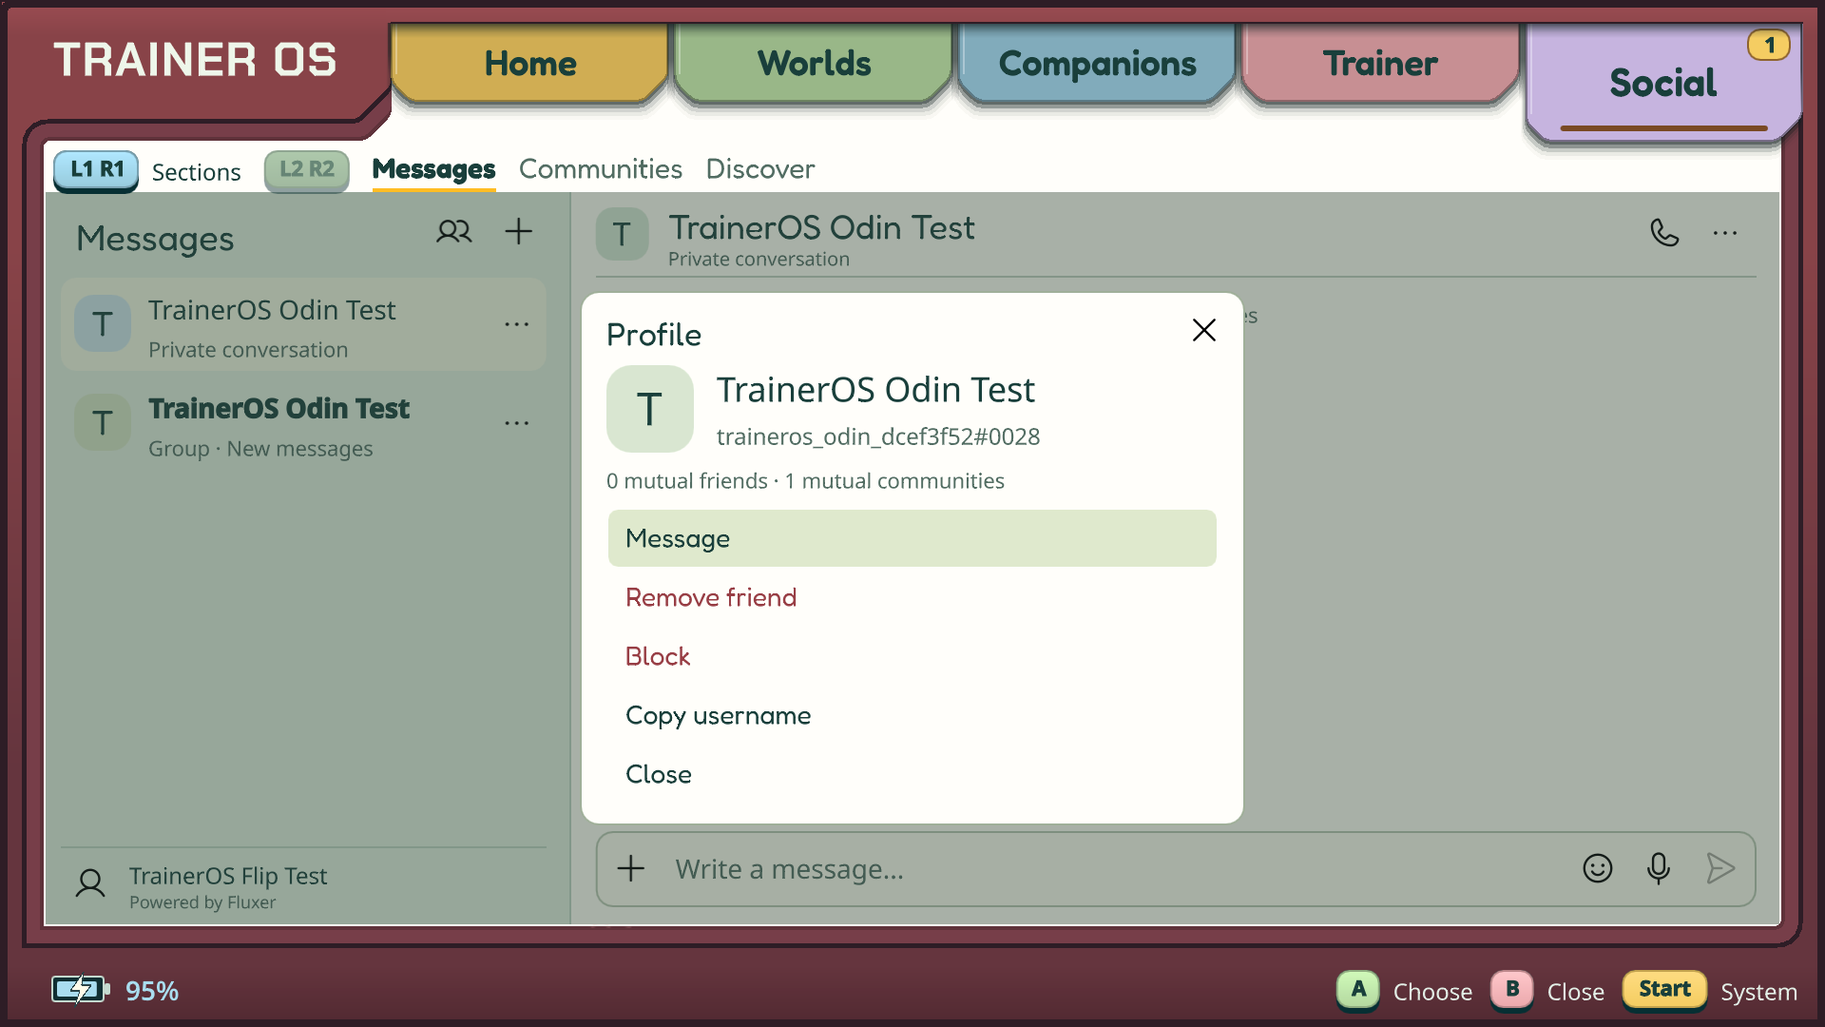
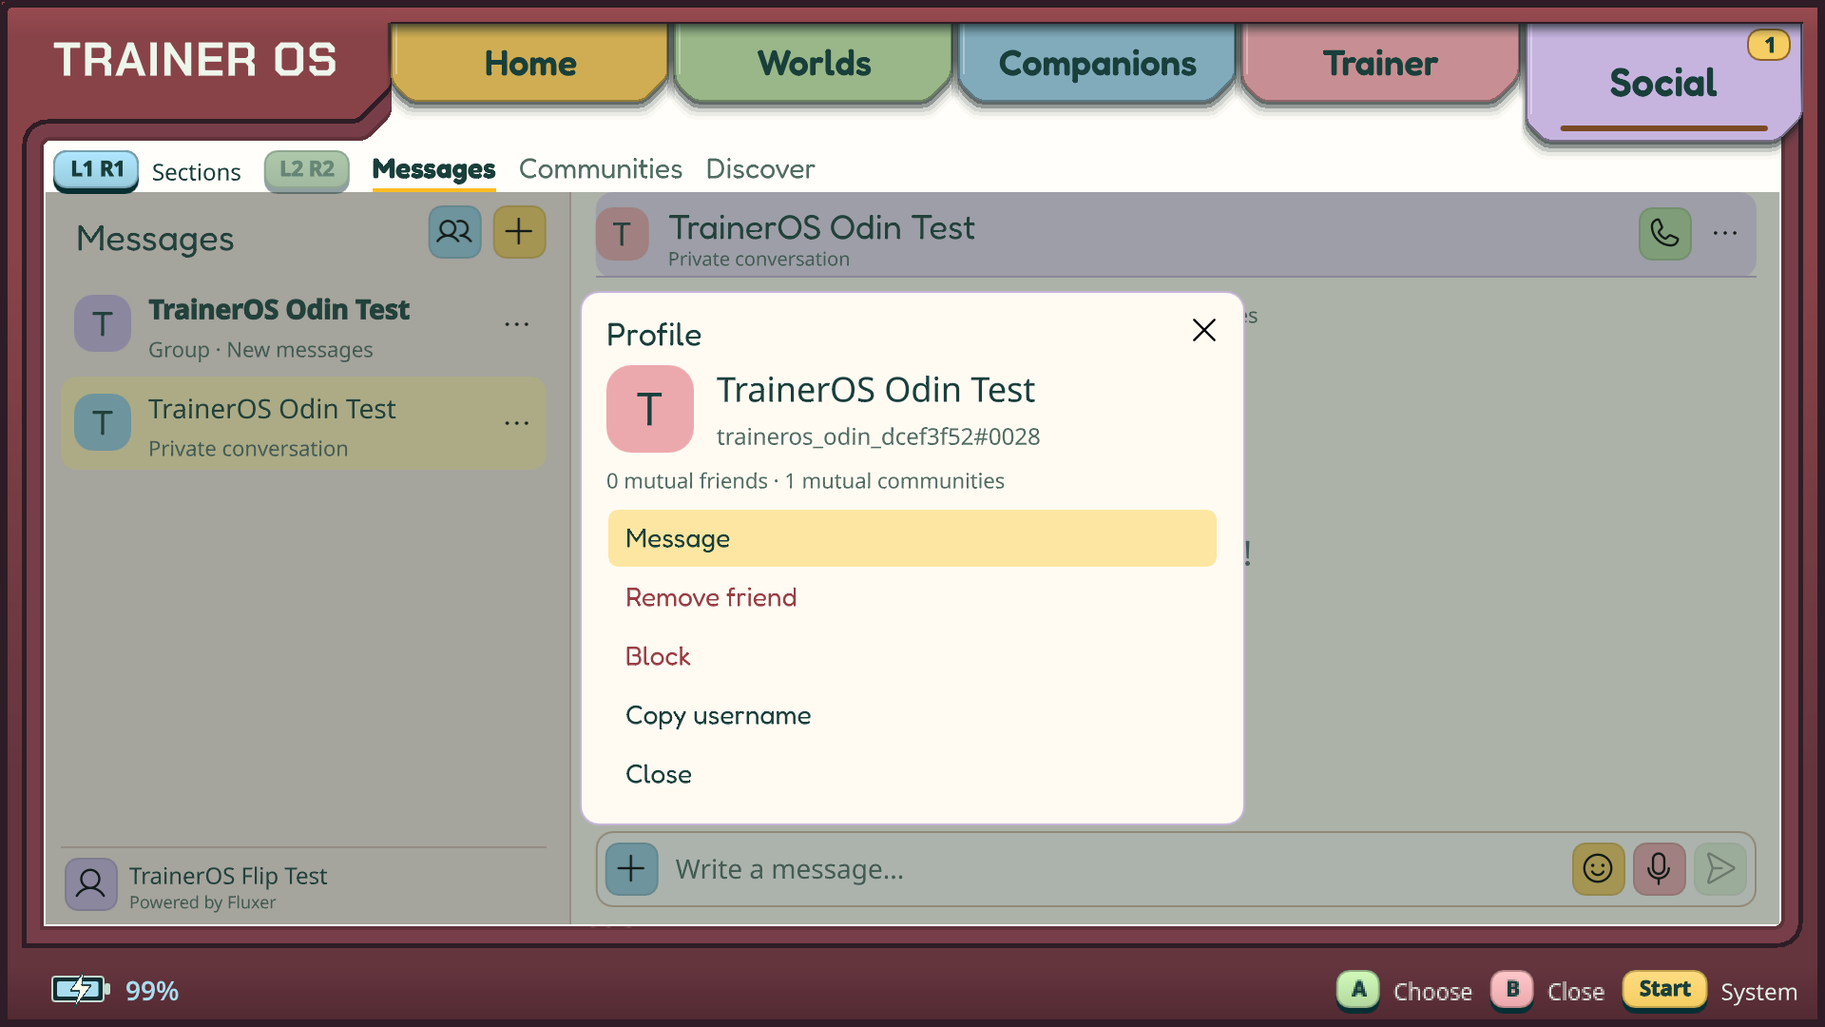
Restore warm pastel accents to compact Social

diff --git a/src/qml/SocialPage.qml b/src/qml/SocialPage.qml
@@ -66,15 +66,15 @@ FocusScope {
         id: conversationPage
         visible: root.connected && root.faceIndex !== 2
         anchors { top: heading.bottom; bottom: parent.bottom; left: parent.left; right: parent.right }
-        Rectangle { anchors.fill: parent; color: "#f8f8ee" }
-        Rectangle { width: people.width + 20; height: parent.height; color: "#dce9d9" }
-        Rectangle { x: people.width + 20; width: 1; height: parent.height; color: "#b9cebd" }
+        Rectangle { anchors.fill: parent; color: "#fffbf0" }
+        Rectangle { width: people.width + 20; height: parent.height; color: "#f4e4de" }
+        Rectangle { x: people.width + 20; width: 1; height: parent.height; color: "#d8beb7" }
         Text { renderType: typeof Text.CurveRendering === "number" ? Text.CurveRendering : Text.QtRendering; x: 16; y: 12; width: people.width - 72
             text: root.faceIndex === 1 ? "Communities" : root.social.contacts ? "Friends" : "Messages"
             font.family: Theme.displayFamily; font.pixelSize: 19; color: Theme.ink; elide: Text.ElideRight }
-        SocialIconButton { x: people.width - 56; y: 5; icon: "users"; label: root.social.contacts ? "Messages" : "Friends and requests"
+        SocialIconButton { x: people.width - 56; y: 5; tint: Theme.blue; icon: "users"; label: root.social.contacts ? "Messages" : "Friends and requests"
             visible: root.faceIndex === 0; onClicked: root.social.showFriends() }
-        SocialIconButton { x: people.width - 22; y: 5; icon: "plus"; label: "Create and manage"
+        SocialIconButton { x: people.width - 22; y: 5; tint: Theme.yellow; icon: "plus"; label: "Create and manage"
             onClicked: { root.anchorMenu(this); root.social.collectionOptions() } }
         ListView {
             id: people
@@ -85,11 +85,11 @@ FocusScope {
                 required property var modelData
                 required property int index
                 width: people.width; height: 49; radius: 8
-                color: index === people.currentIndex ? "#ecf1dc" : mouse.containsMouse ? "#e4edde" : "transparent"
+                color: index === people.currentIndex ? "#fff0b8" : mouse.containsMouse ? "#faeee7" : "transparent"
                 border.width: index === people.currentIndex && !root.social.reading && !root.social.menu.length ? 1 : 0
-                border.color: "#a3ad78"
+                border.color: "#c5a253"
                 MouseArea { id: mouse; anchors.fill: parent; hoverEnabled: true; onClicked: root.social.activate(index) }
-                Rectangle { x: 7; y: 9; width: 30; height: 30; radius: 10; color: modelData.kind === "groups" ? "#d1dfbf" : "#c9e0e5"
+                Rectangle { x: 7; y: 9; width: 30; height: 30; radius: 10; color: modelData.kind === "groups" ? Theme.tabColors[4] : Theme.blue
                     Image { id: avatarImage; anchors.fill: parent; anchors.margins: 1; source: root.visible ? (modelData.avatar || "") : ""; sourceSize: Qt.size(60,60); asynchronous: true; fillMode: Image.PreserveAspectFit; visible: status === Image.Ready }
                     Text { renderType: typeof Text.CurveRendering === "number" ? Text.CurveRendering : Text.QtRendering; visible: avatarImage.status !== Image.Ready; anchors.centerIn: parent; text: modelData.name.substring(0,1).toUpperCase(); color: Theme.ink; font.family: Theme.displayFamily; font.pixelSize: 18; textFormat: Text.PlainText }
                 }
@@ -101,8 +101,8 @@ FocusScope {
                     onClicked: { root.anchorMenu(this); root.social.contextRow(index) } }
             }
         }
-        Rectangle { x: 8; y: parent.height - 41; width: people.width; height: 1; color: "#b9cebd" }
-        SocialIconButton { x: 8; y: parent.height - 37; icon: "user"; label: "My profile"; onClicked: root.social.profile() }
+        Rectangle { x: 8; y: parent.height - 41; width: people.width; height: 1; color: "#d8beb7" }
+        SocialIconButton { x: 8; y: parent.height - 37; tint: Theme.tabColors[4]; icon: "user"; label: "My profile"; onClicked: root.social.profile() }
         Text { renderType: typeof Text.CurveRendering === "number" ? Text.CurveRendering : Text.QtRendering; x: 44; y: parent.height - 34; width: people.width - 70; text: root.account.name || ""; font.pixelSize: 12; color: Theme.ink; elide: Text.ElideRight; textFormat: Text.PlainText
             MouseArea { anchors.fill: parent; onClicked: root.social.profile() } }
         Text { renderType: typeof Text.CurveRendering === "number" ? Text.CurveRendering : Text.QtRendering; x: 44; y: parent.height - 18; text: "Powered by Fluxer"; font.pixelSize: 9; color: Theme.muted }
@@ -113,23 +113,23 @@ FocusScope {
             id: conversationPane
             anchors { left: people.right; leftMargin: 26; right: parent.right; rightMargin: 12; top: parent.top; bottom: parent.bottom }
             visible: root.social.conversation
-            Item { id: chatHeading; width: parent.width; height: 45
-                Rectangle { x: 0; y: 8; width: 28; height: 28; radius: 9; color: "#d1e2ce"
+            Rectangle { id: chatHeading; width: parent.width; height: 45; radius: 9; color: "#e6dbf0"
+                Rectangle { x: 0; y: 8; width: 28; height: 28; radius: 9; color: Theme.pink
                     Text { renderType: typeof Text.CurveRendering === "number" ? Text.CurveRendering : Text.QtRendering; anchors.centerIn: parent; text: root.social.conversationName.substring(0,1).toUpperCase(); font.pixelSize: 17; color: Theme.ink }
                     Image { anchors.fill: parent; source: root.social.conversationInfo.avatar || ""; sourceSize: Qt.size(56,56); asynchronous: true }
                 }
                 Text { renderType: typeof Text.CurveRendering === "number" ? Text.CurveRendering : Text.QtRendering; x: 38; y: 7; width: parent.width - 112; text: root.social.conversationName; font.family: Theme.displayFamily; font.pixelSize: 18; color: Theme.ink; elide: Text.ElideRight; textFormat: Text.PlainText }
                 Text { renderType: typeof Text.CurveRendering === "number" ? Text.CurveRendering : Text.QtRendering; x: 38; y: 28; width: parent.width - 112; text: root.account.historyBusy ? "Loading messages..." : root.social.conversationInfo.kind === "groups" ? "Group conversation" : root.social.conversationInfo.detail || ""; font.pixelSize: 10; color: Theme.muted; elide: Text.ElideRight; textFormat: Text.PlainText }
                 MouseArea { width: parent.width - 74; height: parent.height; onClicked: root.social.conversationProfile() }
-                SocialIconButton { anchors.right: options.left; y: 6; icon: "phone"; label: "Call"
+                SocialIconButton { anchors.right: options.left; y: 6; tint: Theme.green; icon: "phone"; label: "Call"
                     visible: !root.social.conversationInfo.guild
                     enabled: !!root.account.voice && (root.account.voice.available || !!root.account.voice.channel)
                     onClicked: { root.anchorMenu(this); root.social.call() } }
                 SocialIconButton { id: options; anchors.right: parent.right; y: 6; icon: "dots-three"; label: "Conversation options"
                     onClicked: { root.anchorMenu(this); root.social.contextRow() } }
-                Rectangle { anchors.bottom: parent.bottom; width: parent.width; height: 1; color: "#bdcbbb" }
+                Rectangle { anchors.bottom: parent.bottom; width: parent.width; height: 1; color: "#c6b4d6" }
             }
-            Rectangle { id: activityStrip; y: chatHeading.height; width: parent.width; height: visible ? 25 : 0; radius: 5; color: "#e0e8cc"
+            Rectangle { id: activityStrip; y: chatHeading.height; width: parent.width; height: visible ? 25 : 0; radius: 5; color: "#deedcb"
                 readonly property var party: root.social.gameParty
                 readonly property var voice: root.account.voice || ({})
                 visible: !!party.party || !!party.joining || !!voice.channel
@@ -173,9 +173,9 @@ FocusScope {
                     readonly property var previous: index > 0 ? root.social.messages[index-1] : null
                     readonly property bool grouped: !!previous && !modelData.system && !previous.system && !!modelData.author && previous.author === modelData.author && !!modelData.timestamp && Math.abs(Date.parse(modelData.timestamp)-Date.parse(previous.timestamp)) < 300000
                     width: log.width; height: content.height + (grouped ? 2 : 12)
-                    Rectangle { anchors.fill: parent; radius: 5; color: root.social.reading && index === log.currentIndex ? "#e5eacb" : "transparent" }
+                    Rectangle { anchors.fill: parent; radius: 5; color: root.social.reading && index === log.currentIndex ? "#fff0bd" : "transparent" }
                     MouseArea { anchors.fill: parent; onClicked: root.social.selectMessage(index); onPressAndHold: { root.social.selectMessage(index); root.anchorMenu(messageRow); root.social.options() } }
-                    Rectangle { x: 2; y: 6; width: 28; height: 28; radius: 9; visible: !messageRow.grouped && !modelData.system; color: modelData.mine ? "#dce6b9" : "#d1e4e9"
+                    Rectangle { x: 2; y: 6; width: 28; height: 28; radius: 9; visible: !messageRow.grouped && !modelData.system; color: modelData.mine ? Theme.pink : Theme.blue
                         Text { renderType: typeof Text.CurveRendering === "number" ? Text.CurveRendering : Text.QtRendering; anchors.centerIn: parent; text: modelData.name.substring(0,1).toUpperCase(); font.pixelSize: 16; color: Theme.ink; textFormat: Text.PlainText }
                         Image { anchors.fill: parent; source: modelData.avatar || ""; sourceSize: Qt.size(56,56); asynchronous: true }
                         MouseArea { anchors.fill: parent; onClicked: root.social.profile(modelData.author) }
@@ -186,7 +186,7 @@ FocusScope {
                         Text { renderType: typeof Text.CurveRendering === "number" ? Text.CurveRendering : Text.QtRendering; width: parent.width; visible: !!modelData.text || modelData.system; text: (modelData.text || (modelData.system ? "Conversation updated" : "")) + (modelData.edited ? " (edited)" : ""); font.pixelSize: modelData.system ? 12 : 15; color: modelData.system ? Theme.muted : Theme.ink; wrapMode: Text.Wrap; textFormat: Text.PlainText }
                         Text { renderType: typeof Text.CurveRendering === "number" ? Text.CurveRendering : Text.QtRendering; visible: !!modelData.callDetail; width: parent.width; text: modelData.callDetail || ""; font.pixelSize: 11; color: Theme.muted; wrapMode: Text.Wrap; textFormat: Text.PlainText }
                         Repeater { model: modelData.attachments || []
-                            Rectangle { required property var modelData; width: content.width; height: 34; radius: 6; color: "#e3e9d7"
+                            Rectangle { required property var modelData; width: content.width; height: 34; radius: 6; color: "#deedf3"
                                 Text { renderType: typeof Text.CurveRendering === "number" ? Text.CurveRendering : Text.QtRendering; anchors { fill: parent; margins: 8 } text: modelData.content_type && modelData.content_type.startsWith("audio/") ? "Voice message · " + (modelData.duration || 0) + " s" : "Picture"; font.pixelSize: 13; color: Theme.ink; textFormat: Text.PlainText }
                             }
                         }
@@ -196,17 +196,17 @@ FocusScope {
             }
             Text { renderType: typeof Text.CurveRendering === "number" ? Text.CurveRendering : Text.QtRendering; anchors.centerIn: log; width: log.width - 40; visible: log.count === 0
                 text: root.account.historyBusy ? "Loading messages..." : "Say hello!"; horizontalAlignment: Text.AlignHCenter; wrapMode: Text.WordWrap; font.pixelSize: 18; color: Theme.muted }
-            Rectangle { visible: !!root.account.historyPast; anchors { right: log.right; bottom: log.bottom; margins: 5 } width: 85; height: 28; radius: 8; color: "#e8eddc"; border.color: "#a8b69d"
+            Rectangle { visible: !!root.account.historyPast; anchors { right: log.right; bottom: log.bottom; margins: 5 } width: 85; height: 28; radius: 8; color: "#e7ddf1"; border.color: "#bdacce"
                 Text { renderType: typeof Text.CurveRendering === "number" ? Text.CurveRendering : Text.QtRendering; anchors.centerIn: parent; text: "↓ Latest"; color: Theme.ink; font.pixelSize: 12 }
                 MouseArea { anchors.fill: parent; onClicked: root.social.latest() }
             }
-            Rectangle { id: composer; anchors { left: parent.left; right: parent.right; bottom: parent.bottom; bottomMargin: 9 } height: 40; radius: 9; color: "#f7f7e9"; border.color: "#b3c2ab"
-                SocialIconButton { id: attach; x: 3; anchors.verticalCenter: parent.verticalCenter; icon: "plus"; label: "Attach a picture"; onClicked: { root.anchorMenu(this); root.social.attachPicture() } }
+            Rectangle { id: composer; anchors { left: parent.left; right: parent.right; bottom: parent.bottom; bottomMargin: 9 } height: 40; radius: 9; color: Theme.paper; border.color: "#d1b8a0"
+                SocialIconButton { id: attach; x: 3; anchors.verticalCenter: parent.verticalCenter; tint: Theme.blue; icon: "plus"; label: "Attach a picture"; onClicked: { root.anchorMenu(this); root.social.attachPicture() } }
                 Text { renderType: typeof Text.CurveRendering === "number" ? Text.CurveRendering : Text.QtRendering; anchors { left: attach.right; right: emoji.left; margins: 7; verticalCenter: parent.verticalCenter } text: root.social.draft || "Write a message..."; font.pixelSize: 14; color: root.social.draft ? Theme.ink : Theme.muted; elide: Text.ElideRight; textFormat: Text.PlainText
                     MouseArea { anchors.fill: parent; anchors.topMargin: -10; anchors.bottomMargin: -10; onClicked: root.social.compose() } }
-                SocialIconButton { id: emoji; anchors { right: mic.left; verticalCenter: parent.verticalCenter } icon: "smiley"; label: "Emoji"; onClicked: { root.anchorMenu(this); root.social.emoji() } }
-                SocialIconButton { id: mic; anchors { right: send.left; verticalCenter: parent.verticalCenter } icon: "microphone"; label: "Record voice message"; enabled: !root.account.voice || !root.account.voice.channel; onClicked: { root.anchorMenu(this); root.social.recordVoice() } }
-                SocialIconButton { id: send; objectName: "social-send"; anchors { right: parent.right; rightMargin: 3; verticalCenter: parent.verticalCenter } icon: "paper-plane-right"; label: "Send"; highlighted: enabled
+                SocialIconButton { id: emoji; anchors { right: mic.left; verticalCenter: parent.verticalCenter } tint: Theme.yellow; icon: "smiley"; label: "Emoji"; onClicked: { root.anchorMenu(this); root.social.emoji() } }
+                SocialIconButton { id: mic; anchors { right: send.left; verticalCenter: parent.verticalCenter } tint: Theme.pink; icon: "microphone"; label: "Record voice message"; enabled: !root.account.voice || !root.account.voice.channel; onClicked: { root.anchorMenu(this); root.social.recordVoice() } }
+                SocialIconButton { id: send; objectName: "social-send"; anchors { right: parent.right; rightMargin: 3; verticalCenter: parent.verticalCenter } tint: Theme.green; icon: "paper-plane-right"; label: "Send"; highlighted: enabled
                     enabled: root.account.state === "connected" && root.social.draft.trim().length > 0; onClicked: root.social.sendDraft() }
             }
         }
@@ -282,7 +282,7 @@ FocusScope {
             x: root.social.profileVisible || root.social.mediaPreview ? (parent.width-width)/2 : Math.max(12,Math.min(root.menuAnchor.x,parent.width-width-12))
             y: root.social.profileVisible || root.social.mediaPreview ? (parent.height-height)/2 : Math.max(8,Math.min(root.menuAnchor.y,parent.height-height-8))
             height: Math.min(parent.height - 24, menuHeading.height + (root.social.emojiVisible ? 78 : menuList.contentHeight) + 32)
-            radius: 10; color: Theme.paper; border.color: "#9faf99"; border.width: 1
+            radius: 10; color: "#fffaf2"; border.color: "#c6b4d6"; border.width: 1
             MouseArea { anchors.fill: parent }
             SocialIconButton { anchors { right: parent.right; top: parent.top; margins: 5 } z: 2; icon: "x"; label: "Close"; onClicked: root.social.back() }
             Column {
@@ -292,7 +292,7 @@ FocusScope {
                 Column { visible: root.social.profileVisible; width: parent.width; spacing: 7
                     readonly property var person: root.social.person
                     Row { spacing: 12; width: parent.width
-                        Rectangle { width: 46; height: 46; radius: 13; color: "#d8e6d0"
+                        Rectangle { width: 46; height: 46; radius: 13; color: Theme.pink
                             Text { renderType: typeof Text.CurveRendering === "number" ? Text.CurveRendering : Text.QtRendering; anchors.centerIn: parent; text: (root.social.person.name || "?").substring(0,1); color: Theme.ink; font.pixelSize: 24 }
                             Image { anchors.fill: parent; source: root.social.person.avatar || ""; sourceSize: Qt.size(92,92); asynchronous: true }
                         }
@@ -328,7 +328,7 @@ FocusScope {
                 delegate: Rectangle {
                     required property string modelData; required property int index
                     width: menuList.width; height: Math.max(30, actionText.implicitHeight + 12); radius: 5
-                    color: index === root.social.menuIndex ? "#dfe8cc" : actionMouse.containsMouse ? "#e8eddf" : "transparent"
+                    color: index === root.social.menuIndex ? "#fbe6a1" : actionMouse.containsMouse ? "#eee3f4" : "transparent"
                     Text { renderType: typeof Text.CurveRendering === "number" ? Text.CurveRendering : Text.QtRendering; id: actionText; x: 9; y: 6; width: parent.width - 18; text: modelData; font.pixelSize: 14; font.family: Theme.displayFamily; wrapMode: Text.Wrap; maximumLineCount: 2; elide: Text.ElideRight; textFormat: Text.PlainText
                         color: modelData.startsWith("Delete") || modelData.startsWith("Leave") || modelData.startsWith("Block") || modelData.startsWith("Remove") ? "#983e45" : Theme.ink }
                     MouseArea { id: actionMouse; anchors.fill: parent; hoverEnabled: true; onClicked: root.social.selectMenu(index) }
@@ -338,13 +338,13 @@ FocusScope {
                 Row { width: parent.width
                     Repeater { model: root.social.emojiVisible ? root.social.menu.slice(0,5) : []
                         Rectangle { required property string modelData; required property int index
-                            width: 56; height: 40; radius: 7; color: root.social.menuIndex === index ? "#dfe8cc" : "transparent"
+                            width: 56; height: 40; radius: 7; color: root.social.menuIndex === index ? "#fbe6a1" : "transparent"
                             Text { renderType: typeof Text.CurveRendering === "number" ? Text.CurveRendering : Text.QtRendering; anchors.centerIn: parent; text: modelData; font.pixelSize: 22 }
                             MouseArea { anchors.fill: parent; onClicked: root.social.selectMenu(index) }
                         }
                     }
                 }
-                Rectangle { width: parent.width; height: 30; radius: 5; color: root.social.menuIndex === 5 ? "#dfe8cc" : "transparent"
+                Rectangle { width: parent.width; height: 30; radius: 5; color: root.social.menuIndex === 5 ? "#fbe6a1" : "transparent"
                     Text { renderType: typeof Text.CurveRendering === "number" ? Text.CurveRendering : Text.QtRendering; x: 9; anchors.verticalCenter: parent.verticalCenter; text: "More emoji..."; color: Theme.ink; font.family: Theme.displayFamily; font.pixelSize: 14 }
                     MouseArea { anchors.fill: parent; onClicked: root.social.selectMenu(5) }
                 }

diff --git a/src/qml/SocialIconButton.qml b/src/qml/SocialIconButton.qml
@@ -6,6 +6,7 @@ Item {
     property string icon
     property string label
     property bool highlighted: false
+    property color tint: "transparent"
     property bool tooltipSuppressed: false
     signal clicked()
     width: 32; height: 32
@@ -15,7 +16,9 @@ Item {
     Accessible.onPressAction: if (enabled) clicked()
     Rectangle {
         anchors.fill: parent; anchors.margins: 2; radius: 7
-        color: root.highlighted ? Theme.yellow : mouse.containsMouse ? "#d6e3d4" : "transparent"
+        color: root.highlighted ? Theme.yellow : mouse.containsMouse ? (root.tint.a > 0 ? Qt.lighter(root.tint, 1.12) : "#eee2f3") : root.tint
+        border.width: root.tint.a > 0 || root.highlighted ? 1 : 0
+        border.color: Qt.darker(color, 1.12)
     }
     Image { anchors.centerIn: parent; width: 19; height: 19; sourceSize: Qt.size(38,38); source: "qrc:/social-icons/" + root.icon + ".svg" }
     MouseArea { id: mouse; anchors.fill: parent; hoverEnabled: true

diff --git a/docs/SOCIAL_COMPACT.md b/docs/SOCIAL_COMPACT.md
@@ -98,3 +98,19 @@ bounded Social screenshot set:
 This correction does not close
 #135, physical ergonomics/audio, distinct-network/group-size, later runtime,
 Hotseat, artwork or distribution acceptance. MP-02 is next after this delivery.
+
+## Palette follow-up, 8 October 2026
+
+The owner requested the shared colourful handheld character back in Social.
+The compact layout now uses a peach sidebar, lavender conversation header,
+warm cream message surface and the shell's blue/pink/yellow/green icon accents.
+Avatars and golden focus highlights repeat the existing shell palette. Message
+text stays on a plain readable surface. Control sizes, message viewport,
+provider behaviour and controller routes are unchanged.
+
+The ARM/QML build passed. The palette build is installed on both handhelds;
[1 lines of base64/hex data omitted]
+Device screenshots above now show this follow-up. Existing functional tests
+are reused for this colour-only change; no new runtime acceptance is claimed.
+The installed chat, profile and overflow were visually reviewed; the runtime
+logs contained no Social QML errors and both outputs remained at 0%.

diff --git a/AGENTS.md b/AGENTS.md
@@ -1,5 +1,10 @@
 # AGENTS.md — TrainerOS
 
+**Owner Social palette correction, 2026-10-08:** compact Social must retain the
+colourful, warm handheld character of the rest of TrainerOS. Use the shared
+pastel accents for icons, avatars, focus and surfaces; preserve readable message
+space, compact geometry and parallel touch/controller actions.
+
 **Owner Social correction, 2026-10-08:** the first UX-01 visual delivery was
 rejected for oversized controls and too little conversation space. Complete the
 compact Fluxer-style correction and provider-backed profiles before MP-02.
